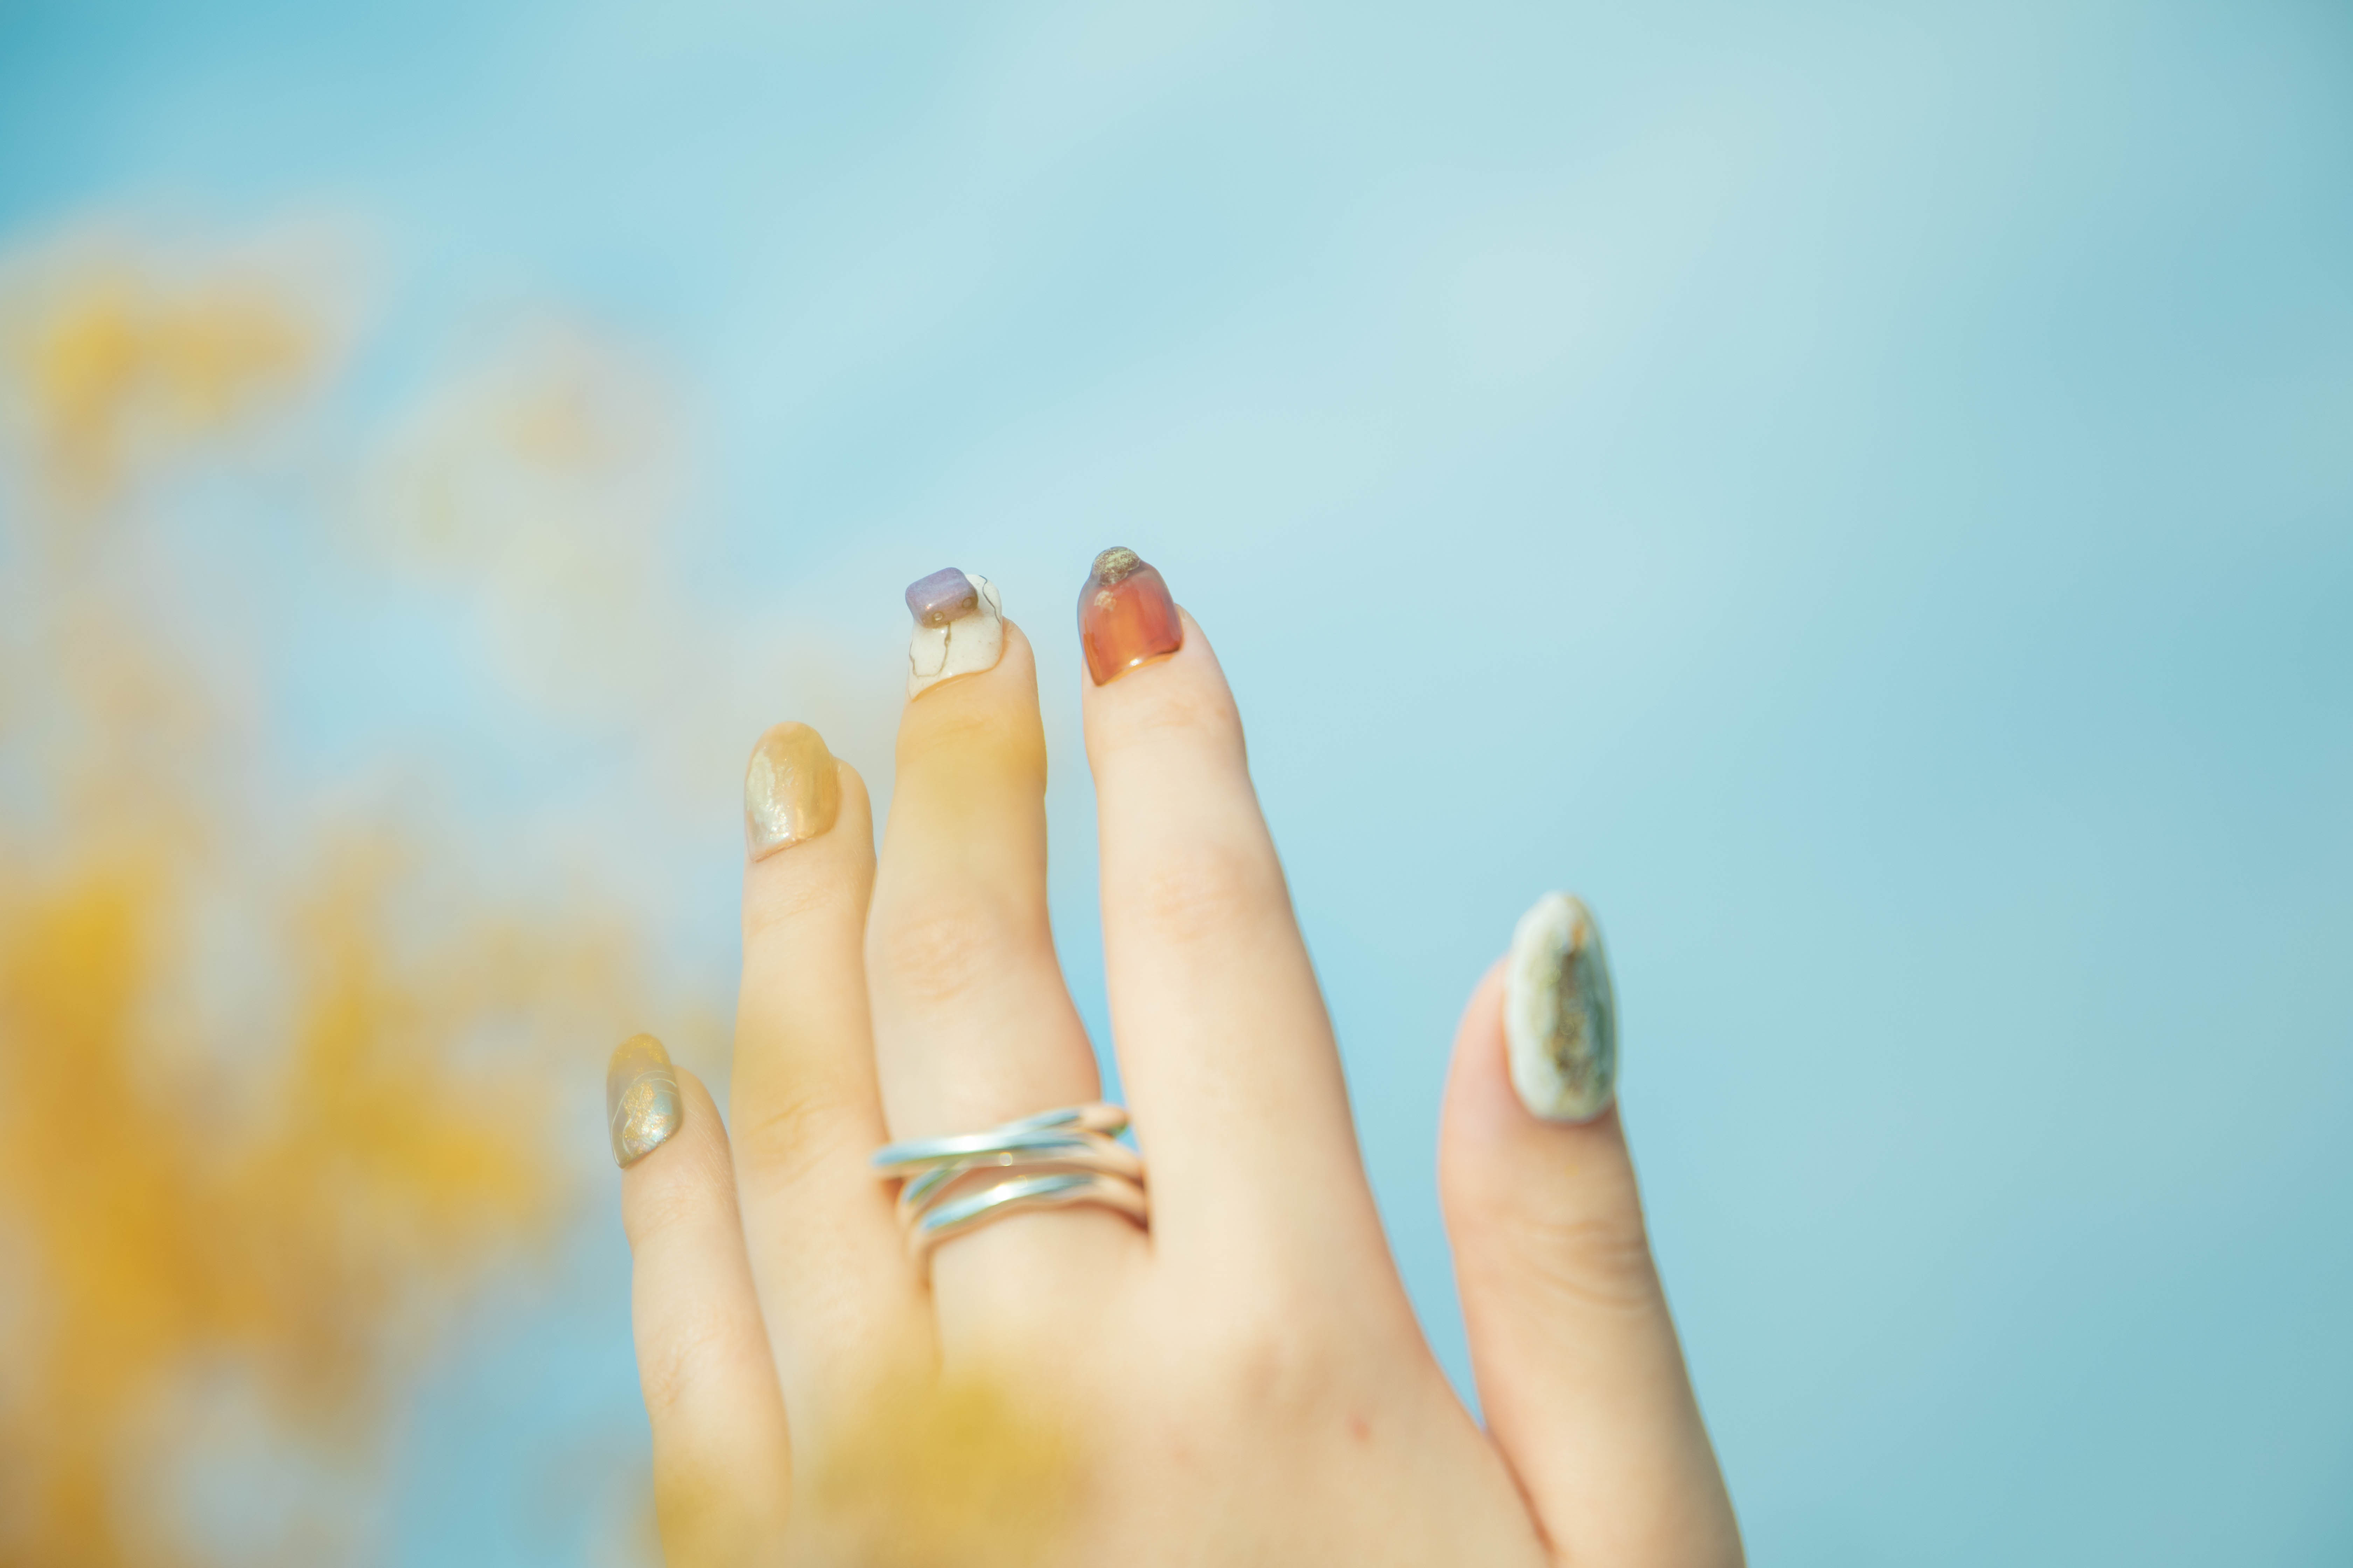
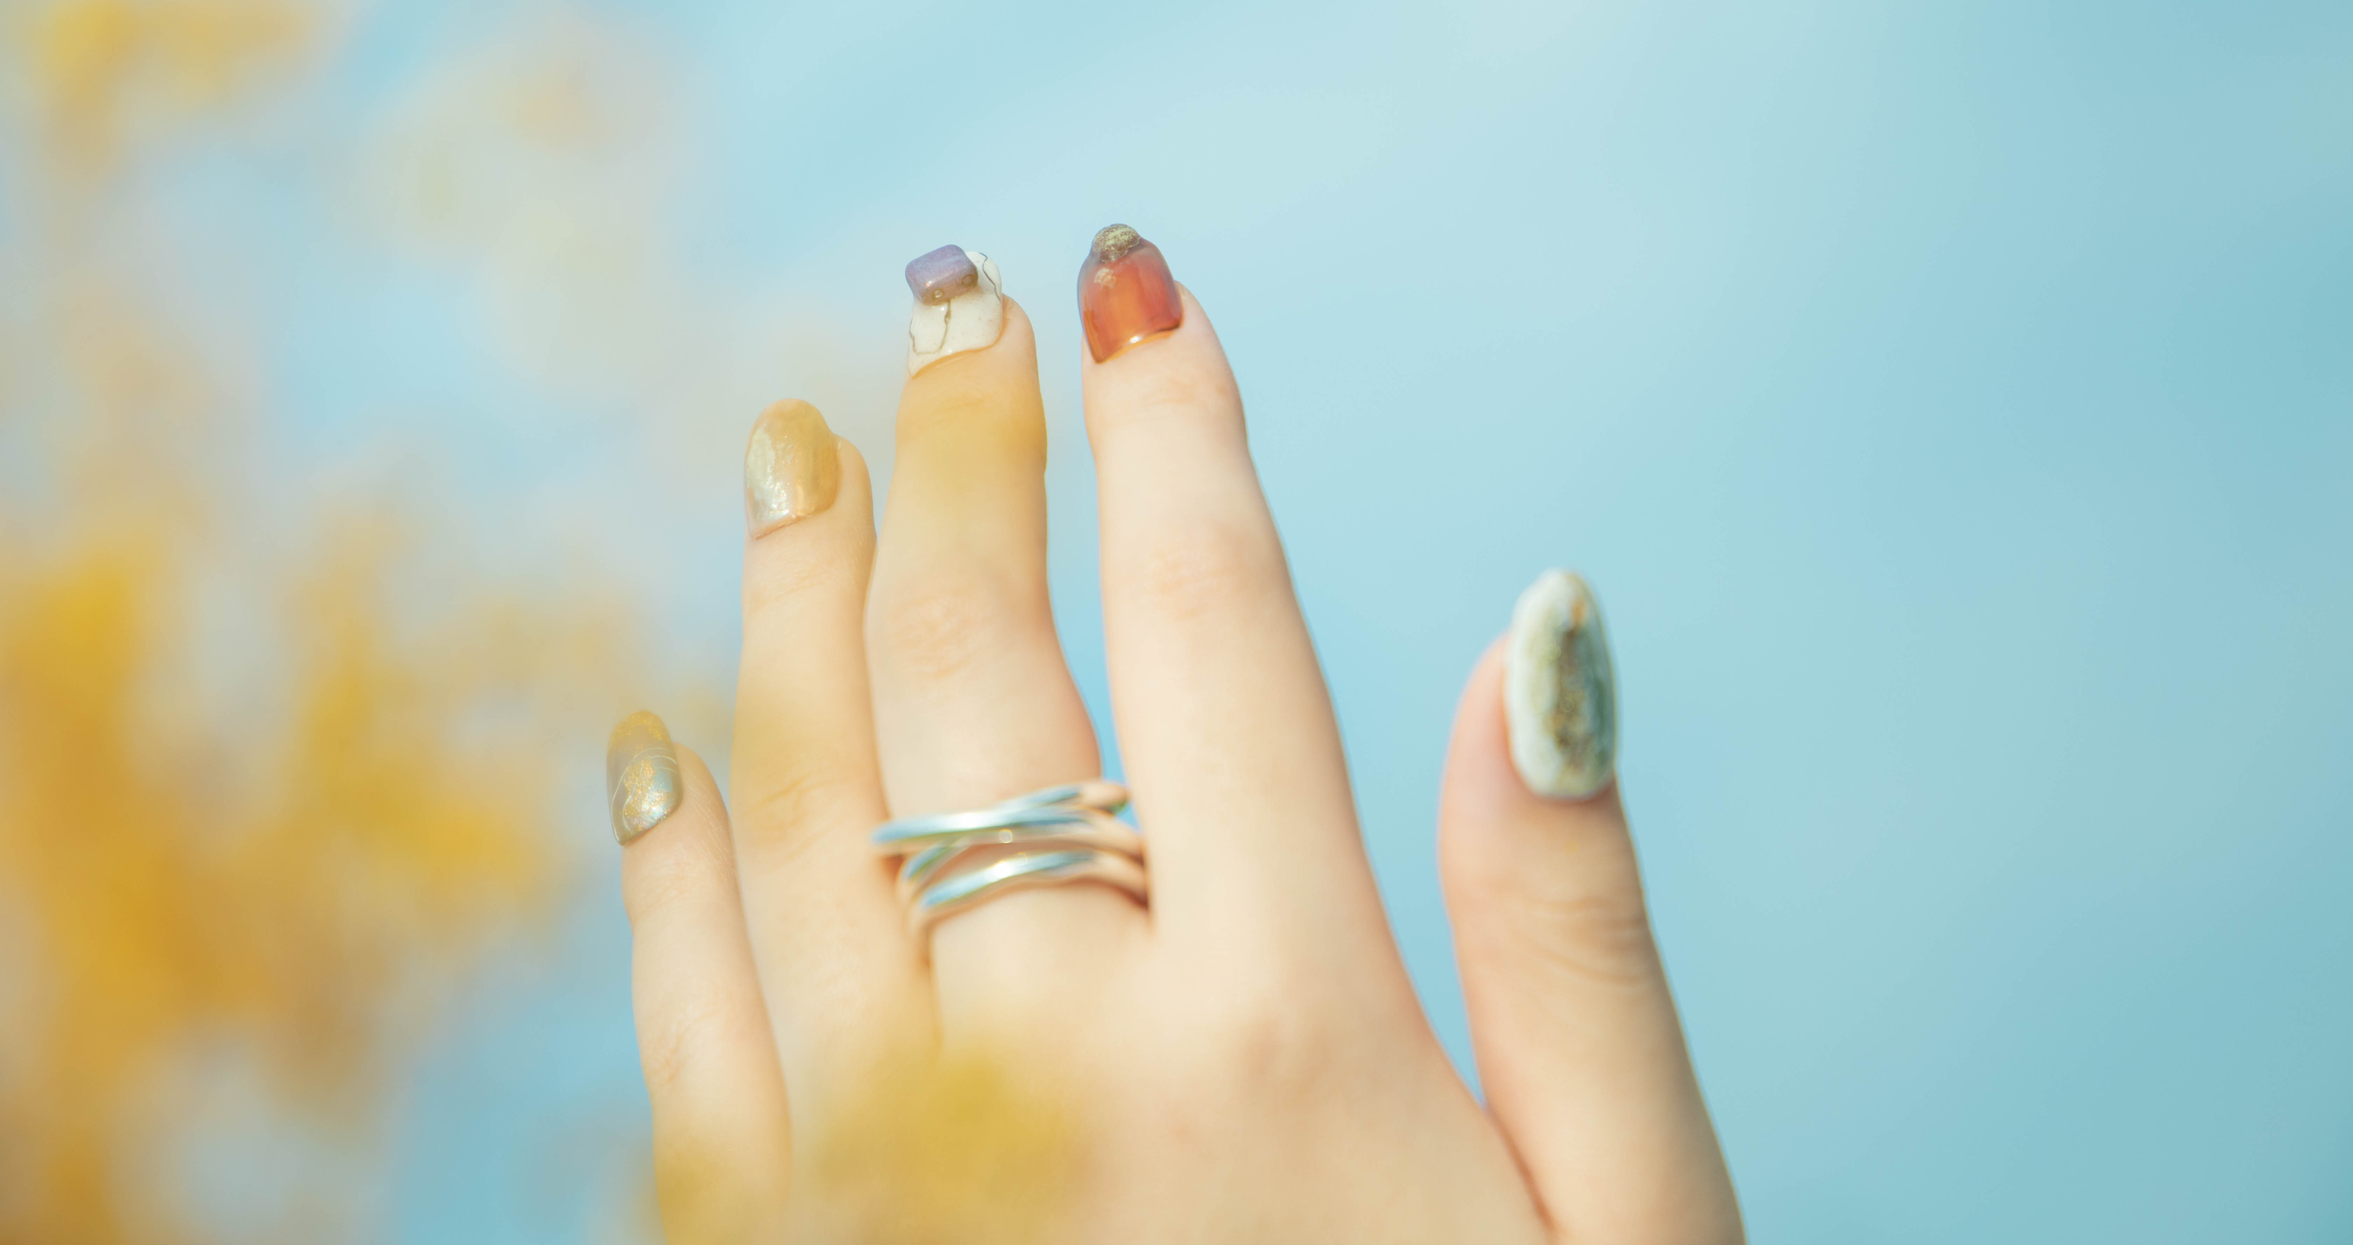
head画像変更

diff --git a/pages/index.tsx b/pages/index.tsx
@@ -28,7 +28,7 @@ const Index = ({ posts }: InferGetStaticPropsType<typeof getStaticProps>) => {
                 <meta name="twitter:image" content="/public/shinjiPhotoMainImg.jpg" />
             </Head>
             <div style={{ color: "#4b4e45", fontFamily: "Bebas Neue, cursive", fontWeight: 400, fontSize: "26px", display: "flex", alignItems: "center", justifyContent: "center", flexDirection: "column", whiteSpace: "nowrap" }}>
-                <img src="/head.jpg" style={{ margin: "24px auto", width: "60vw" }} alt="head"/>
+                <img src="/head.jpg" style={{ width: "100vw", marginBottom: "24px" }} alt="head"/>
                 <div style={{ marginBottom: 16 }}>SHINJI SUGIMOTO</div>
                 <div style={{ marginBottom: 16 }}>1998/8/4</div>
                 <div style={{ marginBottom: 16 }}>Born in Mie, Japan.</div>
